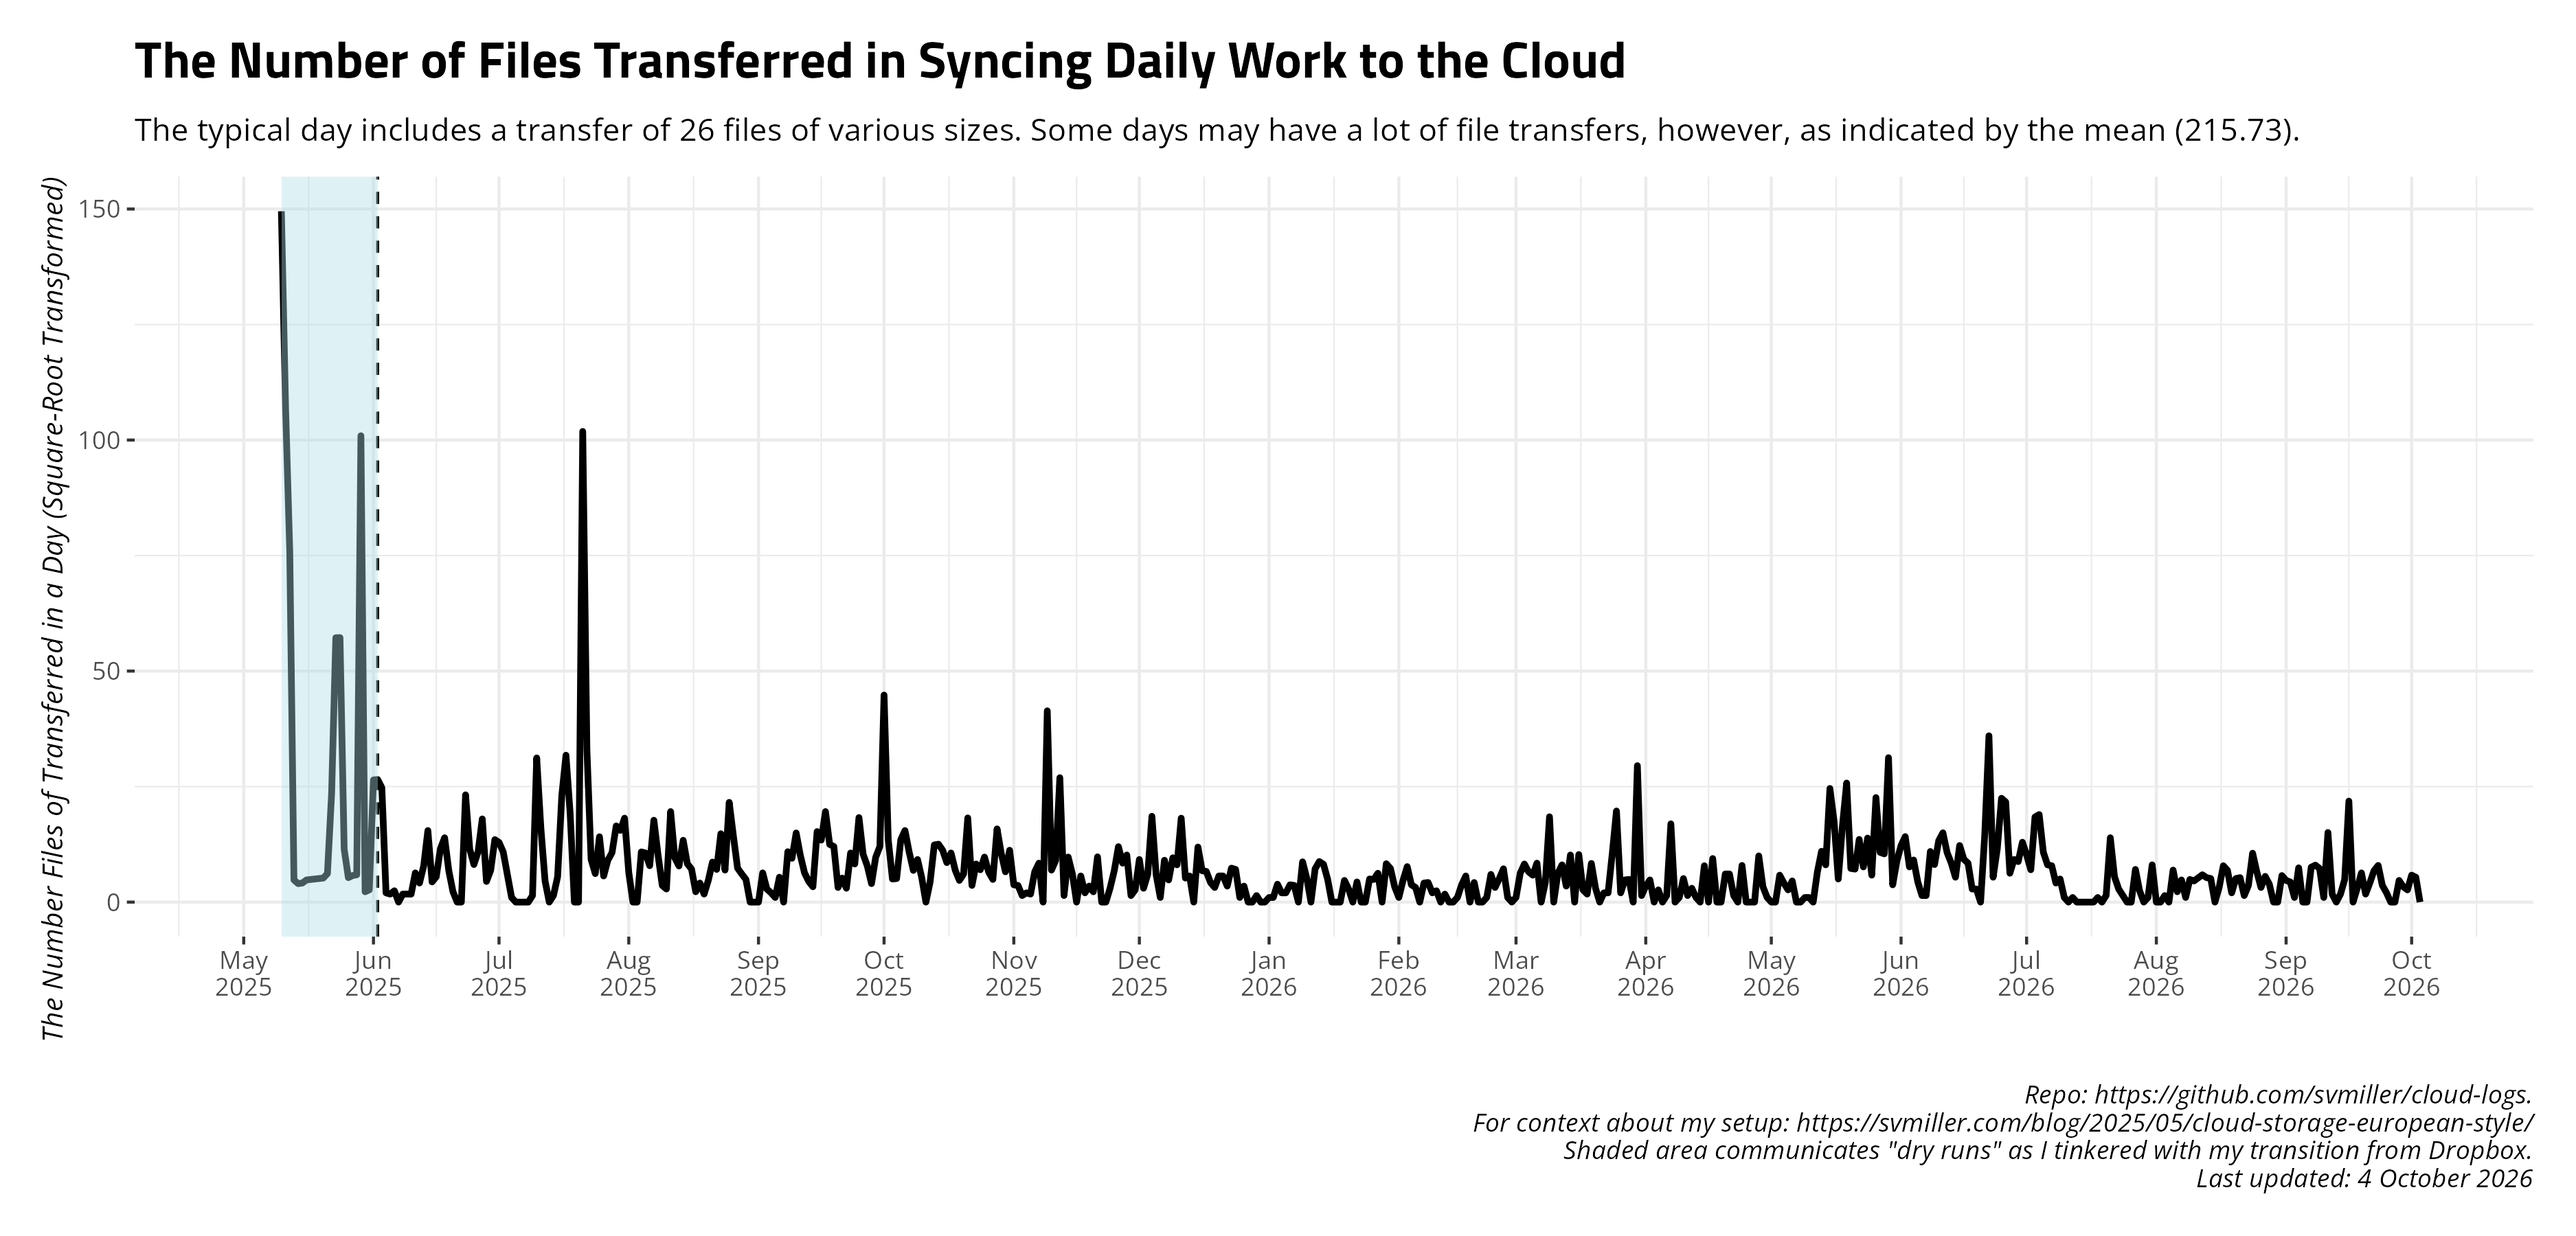
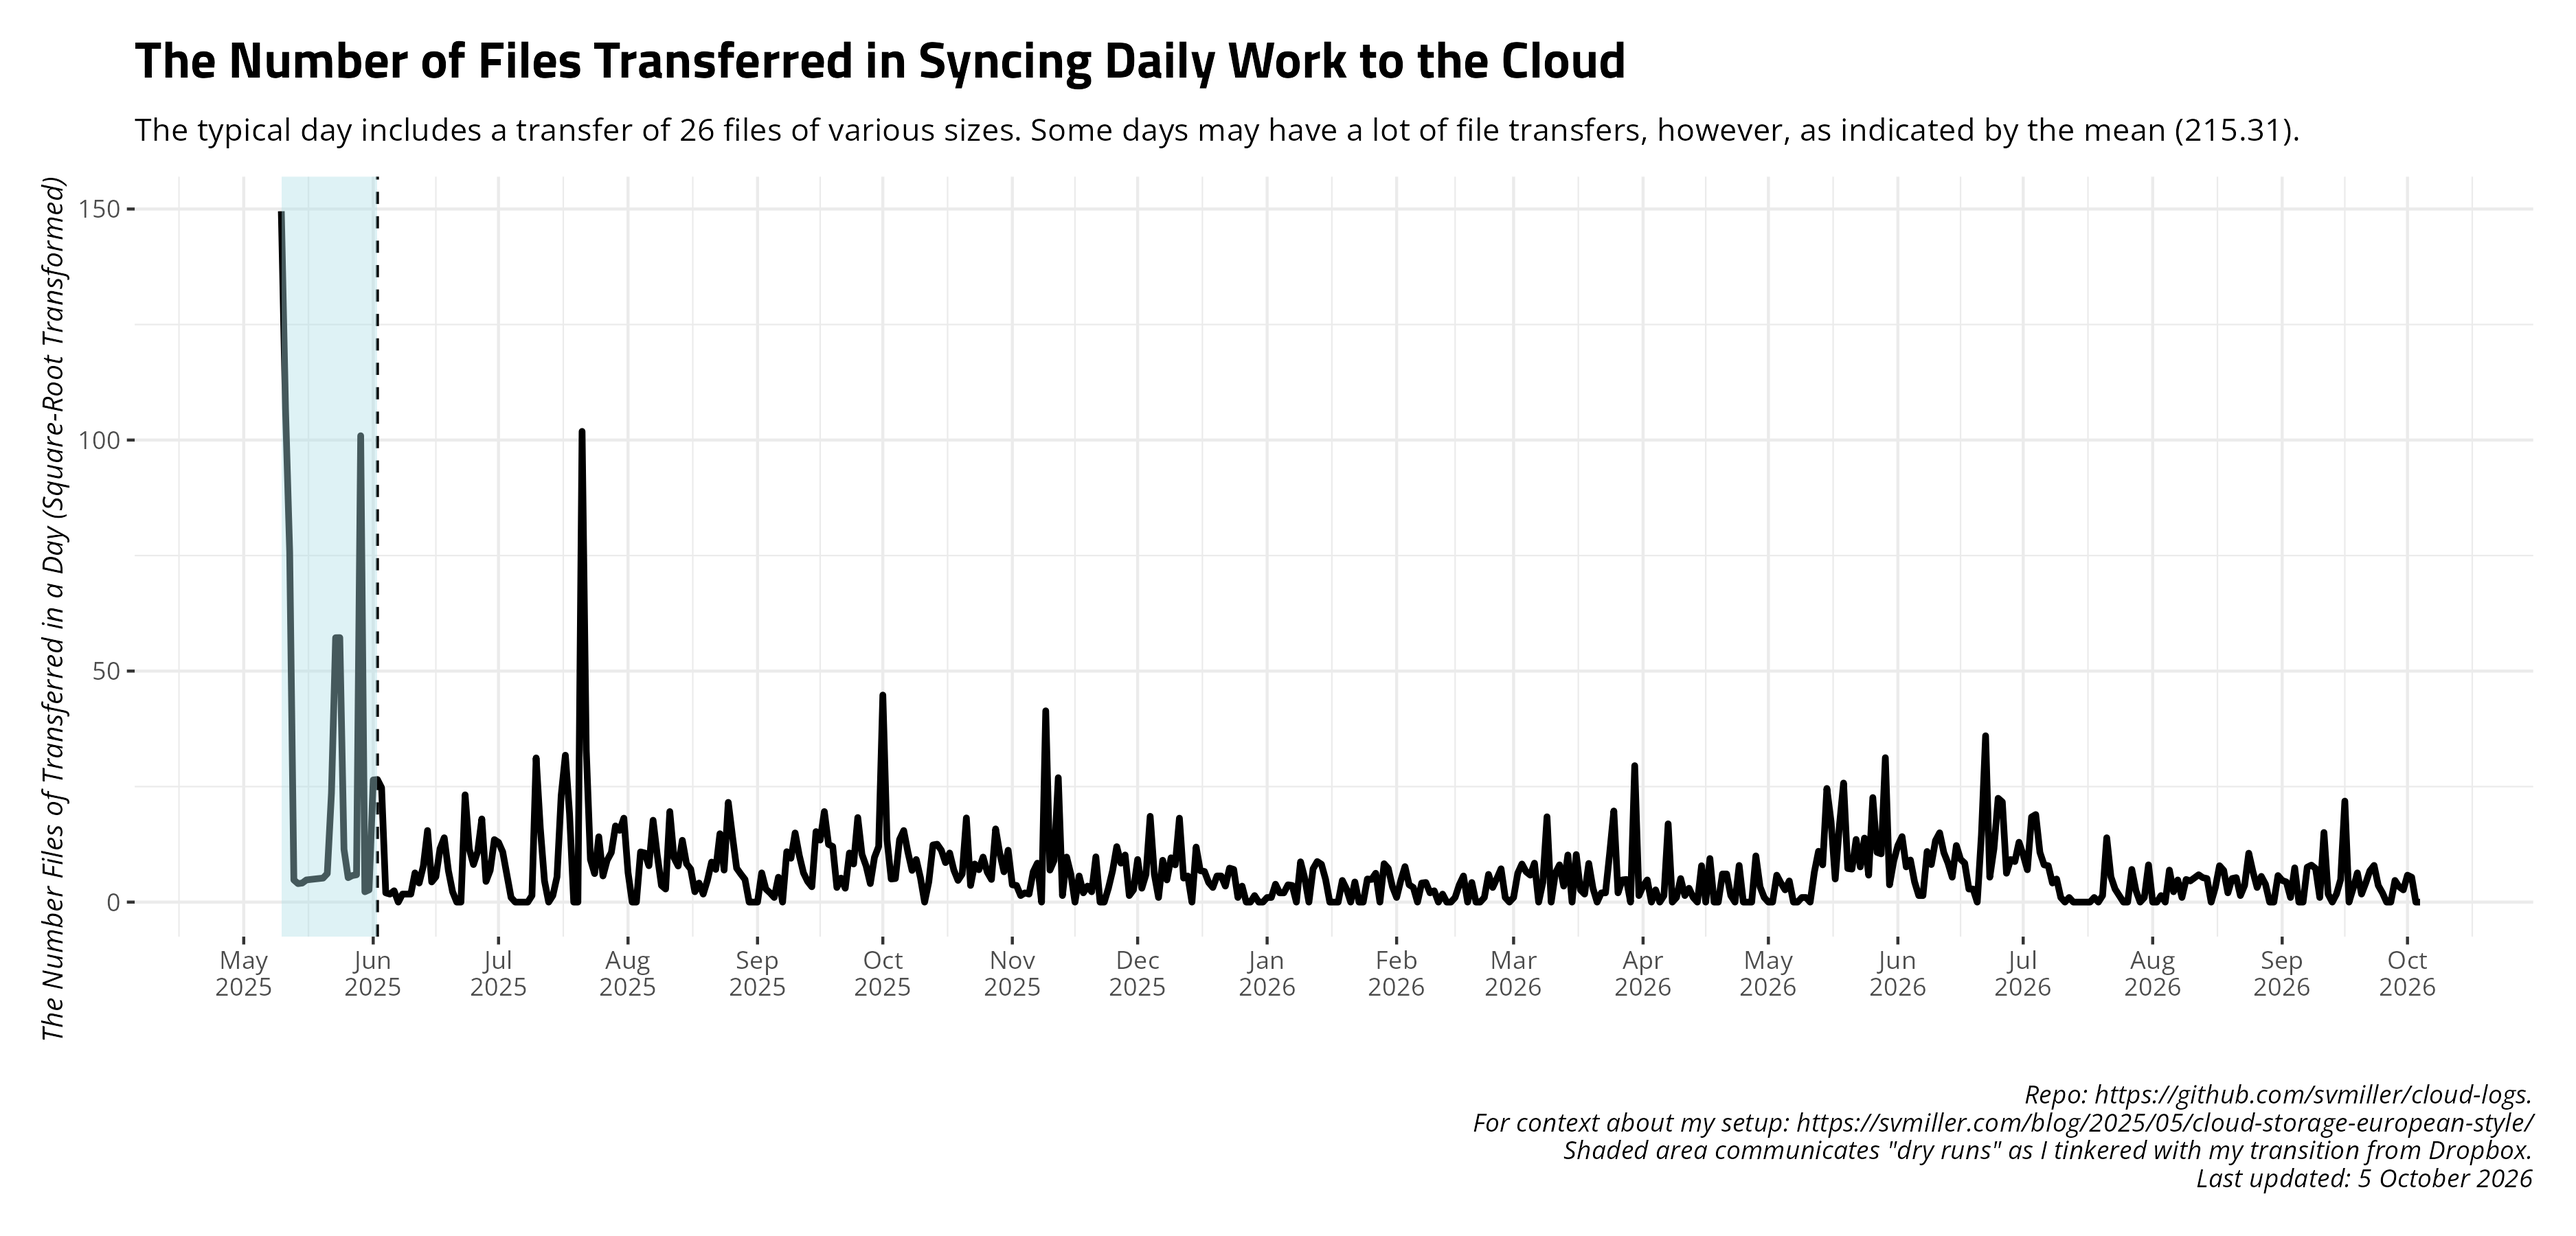
Date: 2026-10-05 09:00:39. Hi mom!

diff --git a/README.md b/README.md
@@ -27,17 +27,17 @@ and uploads to Github.
     #> # A tibble: 14 × 4
     #>    date       ftransfer stransfer   elapsed 
     #>    <date>         <dbl> <chr>       <chr>   
-    #>  1 2026-09-20         3 3.192 KiB   4m35.2s 
-    #>  2 2026-09-21        17 2.403 MiB   26m34.9s
-    #>  3 2026-09-22        46 2.190 MiB   4m36.1s 
-    #>  4 2026-09-23        63 398.606 MiB 11m10.7s
-    #>  5 2026-09-24        13 38.466 MiB  4m36.8s 
-    #>  6 2026-09-25         4 5.267 MiB   4m38.0s 
-    #>  7 2026-09-26         0 <NA>        4m35.3s 
-    #>  8 2026-09-27         0 <NA>        4m49.5s 
-    #>  9 2026-09-28        22 176.927 KiB 4m52.5s 
-    #> 10 2026-09-29        11 2.087 MiB   7m14.5s 
-    #> 11 2026-09-30         7 1.422 GiB   5m36.9s 
-    #> 12 2026-10-01        34 8.149 MiB   4m45.0s 
-    #> 13 2026-10-02        29 8.205 MiB   14m8.7s 
-    #> 14 2026-10-03         0 <NA>        4m42.9s
+    #>  1 2026-09-21        17 2.403 MiB   26m34.9s
+    #>  2 2026-09-22        46 2.190 MiB   4m36.1s 
+    #>  3 2026-09-23        63 398.606 MiB 11m10.7s
+    #>  4 2026-09-24        13 38.466 MiB  4m36.8s 
+    #>  5 2026-09-25         4 5.267 MiB   4m38.0s 
+    #>  6 2026-09-26         0 <NA>        4m35.3s 
+    #>  7 2026-09-27         0 <NA>        4m49.5s 
+    #>  8 2026-09-28        22 176.927 KiB 4m52.5s 
+    #>  9 2026-09-29        11 2.087 MiB   7m14.5s 
+    #> 10 2026-09-30         7 1.422 GiB   5m36.9s 
+    #> 11 2026-10-01        34 8.149 MiB   4m45.0s 
+    #> 12 2026-10-02        29 8.205 MiB   14m8.7s 
+    #> 13 2026-10-03         0 <NA>        4m42.9s 
+    #> 14 2026-10-04         0 <NA>        5m49.6s
